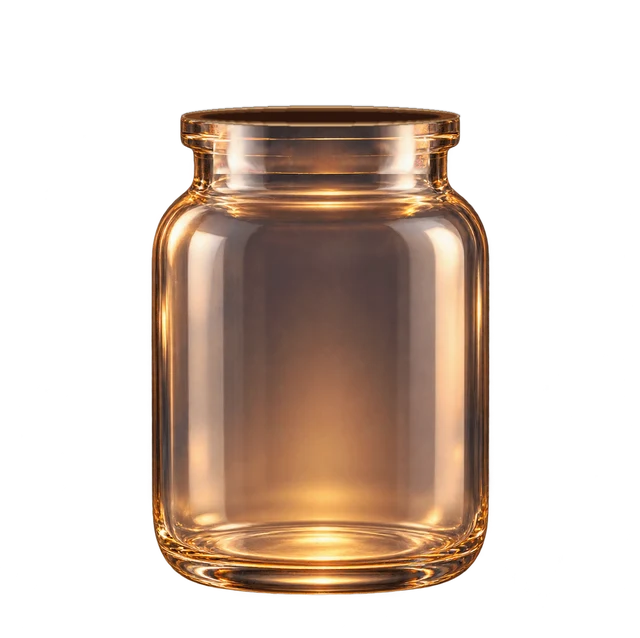
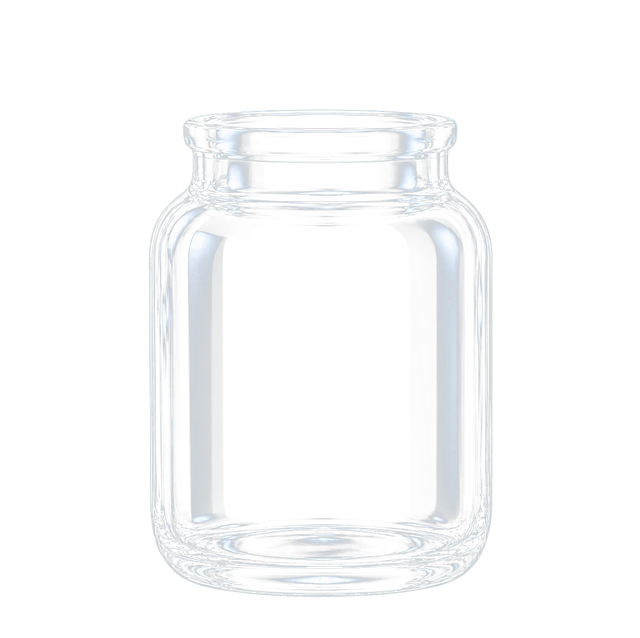
Frasco definitivo de vidrio apagado que se enciende con cada luz
- Piezas nuevas de ChatGPT: frasco cerrado y abierto de vidrio transparente
  sin luz, y corcho suelto. La luz la pone el código: vacío se ve frío y el
  vidrio se calienta a medida que entran las luciérnagas.
- Las luciérnagas ahora quedan detrás del vidrio.
- El tarrito de arriba usa el mismo vidrio, con la luz por dentro.

diff --git a/index.html b/index.html
@@ -35,9 +35,10 @@ button{font:inherit;color:inherit;border:0;background:none;cursor:pointer}
 .top{display:flex;align-items:center;justify-content:space-between;height:48px;flex:none}
 .mini{display:flex;align-items:center;gap:6px;font-size:14px;color:var(--muted)}
 .mj{position:relative;width:46px;height:46px;flex:none;--mg:0}
+/* el tarrito: la luz va detrás del vidrio apagado; el vidrio se calienta (ámbar) a medida que se llena */
+.mj canvas{position:absolute;inset:0;width:100%;height:100%;pointer-events:none}
 .mj img{position:absolute;inset:0;width:100%;height:100%;object-fit:contain;
-  filter:drop-shadow(0 0 calc(3px + 14px*var(--mg)) rgba(255,185,85,calc(.18 + .75*var(--mg)))) brightness(calc(.82 + .3*var(--mg)))}
-.mj canvas{position:absolute;inset:0;width:100%;height:100%;mix-blend-mode:screen;pointer-events:none}
+  filter:drop-shadow(0 0 calc(2px + 14px*var(--mg)) rgba(255,185,85,calc(.1 + .8*var(--mg)))) sepia(calc(.75*var(--mg))) saturate(calc(1 + 2.2*var(--mg))) brightness(calc(.95 + .3*var(--mg)))}
 .mini b{color:var(--gold);font-weight:700;font-size:15px}
 .tbtn{font-size:14px;min-height:44px;min-width:44px;padding:8px 14px;border-radius:999px;background:rgba(255,255,255,.07);color:var(--muted)}
 .tbtns{display:flex;gap:8px}
@@ -85,19 +86,19 @@ h2{font-family:var(--serif);font-weight:700;font-size:30px;line-height:1.15;marg
 .phone{font-size:70px;animation:swing 1.6s ease-in-out infinite}
 @keyframes swing{0%,100%{transform:translateX(-30px) rotate(-12deg)}50%{transform:translateX(30px) rotate(12deg)}}
 .jarbox{position:relative;width:min(70vw,280px,34vh);aspect-ratio:1;cursor:pointer;--glow:0;isolation:isolate}
-.jarbox .jc,.jarbox .jo{position:absolute;inset:0;width:100%;height:100%;object-fit:contain;z-index:1;
-  filter:drop-shadow(0 10px calc(30px + 40px*var(--glow)) rgba(255,170,70,calc(.25 + .45*var(--glow)))) brightness(calc(.92 + .22*var(--glow)));transition:filter 1.2s}
-.jarbox .jc{transform-origin:50% 92%}
-.jarbox .jo,.jarbox.isopen .jc{opacity:0}
-.jarbox.isopen .jo{opacity:1}
+/* capas: luz y luciérnagas de adentro (canvas.in) → vidrio apagado transparente (.jc/.jo) → el mismo vidrio
+   teñido de ámbar que aparece según la luz (.warm) → luciérnagas de afuera y chispas (canvas.out) → tapa */
+.jarbox .jc,.jarbox .jo,.jarbox .warm{position:absolute;inset:0;width:100%;height:100%;object-fit:contain;z-index:2;pointer-events:none}
+.jarbox .jc,.jarbox .jo{filter:drop-shadow(0 8px calc(14px + 40px*var(--glow)) rgba(255,170,70,calc(.08 + .55*var(--glow))))}
+.jarbox .warm{z-index:3;mix-blend-mode:screen;filter:sepia(1) saturate(3.5) hue-rotate(-12deg) brightness(1.1);opacity:calc(.9*var(--glow))}
+.jarbox .jc,.jarbox .wc{transform-origin:50% 92%}
+.jarbox .jo,.jarbox .wo,.jarbox.isopen .jc,.jarbox.isopen .wc{display:none}
+.jarbox.isopen .jo,.jarbox.isopen .wo{display:block}
 .jarbox canvas{position:absolute;inset:-25%;width:150%;height:150%;pointer-events:none}
-.jarbox canvas.in{z-index:2;mix-blend-mode:screen}
+.jarbox canvas.in{z-index:1}
 .jarbox canvas.out{z-index:4}
-.jarbox .gl{position:absolute;inset:0;width:100%;height:100%;object-fit:contain;z-index:3;pointer-events:none;mix-blend-mode:screen;filter:brightness(.9) contrast(2.4) saturate(.5);opacity:.3}
-.jarbox .glo,.jarbox.isopen .glc{opacity:0}
-.jarbox.isopen .glo{opacity:.3}
-.jarbox .lidw{position:absolute;left:29.19%;top:8.61%;width:41.39%;z-index:5;pointer-events:none}
-.jarbox .lid{display:block;width:100%;height:auto;opacity:0;transform-origin:50% 80%;-webkit-mask:linear-gradient(#000 0 47%,rgba(0,0,0,.7) 55%);mask:linear-gradient(#000 0 47%,rgba(0,0,0,.7) 55%);filter:drop-shadow(0 8px 10px rgba(0,0,0,.35)) brightness(calc(.92 + .2*var(--glow)))}
+.jarbox .lidw{position:absolute;left:29.11%;top:8.29%;width:41.55%;z-index:5;pointer-events:none}
+.jarbox .lid{display:block;width:100%;height:auto;opacity:0;transform-origin:50% 80%;-webkit-mask:linear-gradient(#000 0 52%,rgba(0,0,0,.75) 60%);mask:linear-gradient(#000 0 52%,rgba(0,0,0,.75) 60%);filter:drop-shadow(0 8px 10px rgba(0,0,0,.35)) brightness(calc(.88 + .25*var(--glow)))}
 .jarbox.isopen .lid{opacity:1}
 .lidw.float{animation:lidfloat 3.2s ease-in-out infinite}
 @keyframes lidfloat{50%{transform:translateY(-6%) rotate(-1.5deg)}}
@@ -108,7 +109,7 @@ h2{font-family:var(--serif);font-weight:700;font-size:30px;line-height:1.15;marg
   background:repeating-conic-gradient(from 0deg,rgba(255,200,110,.13) 0deg 5deg,transparent 5deg 22deg);
   -webkit-mask:radial-gradient(closest-side,#000 20%,transparent 75%);mask:radial-gradient(closest-side,#000 20%,transparent 75%);animation:spin 60s linear infinite}
 @keyframes spin{to{transform:rotate(360deg)}}
-.jarbox.pop .jc{animation:jpop .5s ease}
+.jarbox.pop .jc,.jarbox.pop .wc{animation:jpop .5s ease}
 @keyframes jpop{40%{transform:scale(1.035)}}
 .icon[src*="gracias"],.step img[src*="gracias"]{filter:brightness(.82) saturate(.9) drop-shadow(0 8px 22px rgba(255,170,70,.18))}
 .card.flip{animation:flip .6s cubic-bezier(.2,.8,.25,1) both;transform-origin:50% 50%}
@@ -145,7 +146,7 @@ h2{font-family:var(--serif);font-weight:700;font-size:30px;line-height:1.15;marg
 <body>
 <div id="app">
   <div class="top">
-    <div class="mini" id="mini"><div class="mj" id="mj"><img src="img/frasco.webp" alt=""><canvas id="mjc"></canvas></div><b id="count">0</b><span id="countLbl"></span></div>
+    <div class="mini" id="mini"><div class="mj" id="mj"><canvas id="mjc"></canvas><img src="img/frasco-apagado.webp" alt=""></div><b id="count">0</b><span id="countLbl"></span></div>
     <div class="tbtns"><button class="tbtn" id="snd" aria-label="sonido">🔈</button><button class="tbtn" id="lang"></button></div>
   </div>
   <div id="view"></div>
@@ -291,7 +292,7 @@ function mountJars(){
     const interval=target?Math.max(55,Math.min(5200,900+target*230)/maxN):999;
     /* tapa: tiembla, salta con un "pop", flota mientras entran las luces y vuelve a cerrar */
     const setOpen=o=>box.classList.toggle('isopen',o);
-    const jc=box.querySelector('.jc');
+    const jcs=[box.querySelector('.jc'),box.querySelector('.wc')], jc={animate:(k,o)=>{ jcs[1].animate(k,o); return jcs[0].animate(k,o); }};
     const openLid=cb=>{ lidState='opening';
       /* primero tiembla el frasco entero, con su tapa original; la tapa suelta aparece justo en el "pop" */
       jc.animate([{transform:'none'},{transform:'rotate(-2deg)'},{transform:'rotate(2deg)'},{transform:'rotate(-1.5deg) translateY(-1%)'},{transform:'rotate(1deg)'},{transform:'none'}],{duration:600,easing:'ease-in-out'}).onfinish=()=>{
@@ -432,8 +433,8 @@ function addLight(big, from, quiet){
 }
 function jarHTML(n,opts){ opts=opts||{};
   return `<div class="jarbox" data-n="${n}" ${opts.intro?'data-intro="1"':''} ${opts.counter?`data-counter="${opts.counter}"`:''} ${opts.open?'data-open="1"':''} ${opts.style?`style="${opts.style}"`:''}><div class="rays"></div><div class="halo"></div>
-    <img class="jc" src="img/frasco.webp" alt=""><img class="jo" src="img/frasco-abierto.webp" alt=""><canvas class="in"></canvas>
-    <img class="gl glc" src="img/frasco.webp" alt=""><img class="gl glo" src="img/frasco-abierto.webp" alt=""><canvas class="out"></canvas>
+    <canvas class="in"></canvas><img class="jc" src="img/frasco-apagado.webp" alt=""><img class="jo" src="img/frasco-abierto.webp" alt="">
+    <img class="warm wc" src="img/frasco-apagado.webp" alt=""><img class="warm wo" src="img/frasco-abierto.webp" alt=""><canvas class="out"></canvas>
     <div class="lidw"><img class="lid" src="img/tapa.webp" alt=""></div></div>`;
 }
 function passScreen(next, firstMsg){
